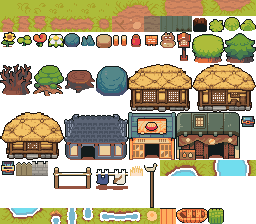
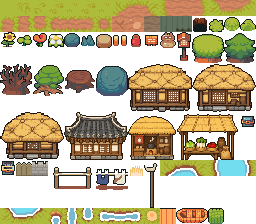
조선풍 기와집·주막·장터 가게 시험판
- 기와집: 검은 기와 지붕과 들린 처마, 흰 회벽과 창호지 문, 툇마루
- 주막: 초가 지붕 아래 가마솥 아궁이와 술독, 국밥 그릇 깃발
- 장터 가게: 거적 차양 아래 배추·무·고추 바구니와 항아리
- GPT 원본은 art/pixel/raw/bldg-town.webp, 줄인 그림은 art/pixel/buildings/

Claude-Session: https://claude.ai/code/session_01ExoAMP3uw9mTqtVk1QAFV9

Changed region(s): [[0.25, 0.5, 0.9375, 0.7188]]

diff --git a/scripts/proto-art.py b/scripts/proto-art.py
@@ -486,7 +486,7 @@ class Packer:
 
 
 # 조선풍으로 새로 그린 건물(2026-11-02): art/pixel/buildings/<이름>.png가 있으면 원본 대신 쓴다(크기는 원본과 같아야 한다).
-# 초가집 셋은 GPT로 그린 art/pixel/raw/bldg-choga.webp를 줄인 것
+# 초가집 셋은 art/pixel/raw/bldg-choga.webp, 기와집·주막·장터 가게는 bldg-town.webp(GPT)를 줄인 것
 BUILDINGS = os.path.join(ROOT, 'art', 'pixel', 'buildings')
 
 
